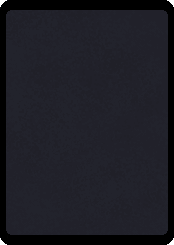
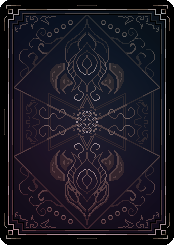
handle revealed cards in hand

diff --git a/packages/client/src/game/components/HandCard.vue b/packages/client/src/game/components/HandCard.vue
@@ -1,16 +1,18 @@
 <script setup lang="ts">
-import type { CardViewModel } from '@game/engine/src/client/view-models/card.model';
 import {
   useGameClient,
   useGameState,
-  useGameUi
+  useGameUi,
+  useMyPlayer
 } from '../composables/useGameClient';
 import GameCard from './GameCard.vue';
 import { usePageLeave } from '@vueuse/core';
 import { INTERACTION_STATES } from '@game/engine/src/game/game.enums';
+import CardBack from '@/card/components/CardBack.vue';
+import type { CardViewModel } from '@game/engine/src/client/view-models/card.model';
 
-const { card, isInteractive } = defineProps<{
-  card: CardViewModel;
+const { cardId, isInteractive } = defineProps<{
+  cardId?: string;
   isInteractive: boolean;
 }>();
 
@@ -42,17 +44,22 @@ const unselectCard = () => {
   //   });
   // });
 };
+const card = computed(() => {
+  if (!cardId) return null;
+  return (state.value.entities[cardId] as CardViewModel) ?? null;
+});
 const onMouseDown = (e: MouseEvent) => {
+  if (!card.value) return;
   if (!client.value.isActive()) {
     return;
   }
   if (state.value.interaction.state !== INTERACTION_STATES.IDLE) {
     return;
   }
-  if (!card.canPlay) {
+  if (!card.value.canPlay) {
     isShaking.value = true;
     violationWarning.value =
-      card.unplayableReason ?? 'You cannot play this card.';
+      card.value.unplayableReason ?? 'You cannot play this card.';
 
     setTimeout(() => {
       violationWarning.value = '';
@@ -72,9 +79,10 @@ const onMouseDown = (e: MouseEvent) => {
   };
 
   const onMousemove = (e: MouseEvent) => {
+    if (!card.value) return;
     const deltaY = startY - e.clientY;
     if (deltaY >= DRAG_THRESHOLD_PX && !ui.value.draggedCard) {
-      ui.value.startDraggingCard(card);
+      ui.value.startDraggingCard(card.value);
       document.body.removeEventListener('mousemove', onMousemove);
     }
   };
@@ -102,26 +110,30 @@ const onMouseDown = (e: MouseEvent) => {
 };
 
 const isDetachedFromHand = computed(() => {
-  if (ui.value.draggedCard?.equals(card)) return true;
+  if (!card.value) return false;
+  if (ui.value.draggedCard?.equals(card.value)) return true;
   return (
     state.value.interaction.state === INTERACTION_STATES.PLAYING_CARD &&
-    state.value.interaction.ctx.card === card.id &&
-    !card.isSelected
+    state.value.interaction.ctx.card === card.value.id &&
+    !card.value.isSelected
   );
 });
 
 const isDisabled = computed(() => {
-  return !card.canPlay;
+  if (!card.value) return false;
+  return !card.value.canPlay;
 });
+const myPlayer = useMyPlayer();
 </script>
 
 <template>
   <div
     class="hand-card"
     :class="{
-      selected: ui.selectedCard?.equals(card),
+      selected: card && ui.selectedCard?.equals(card),
       disabled: isDisabled,
-      'is-shaking': isShaking
+      'is-shaking': isShaking,
+      'is-own-card': card && card.player.equals(myPlayer)
     }"
     @mousedown="onMouseDown($event)"
   >
@@ -129,7 +141,7 @@ const isDisabled = computed(() => {
       {{ violationWarning }}
     </p>
     <GameCard
-      v-if="!isDetachedFromHand"
+      v-if="card && !isDetachedFromHand"
       :card-id="card.id"
       actions-side="top"
       :actions-offset="15"
@@ -137,6 +149,7 @@ const isDisabled = computed(() => {
       class="game-card"
       :show-action-empty-state="false"
     />
+    <CardBack v-else-if="!card" />
   </div>
 </template>
 
@@ -159,7 +172,7 @@ const isDisabled = computed(() => {
     z-index: var(--hand-size);
   }
 
-  &:not(.disabled) {
+  &.is-own-card:not(.disabled) {
     &::before {
       content: '';
       position: absolute;

diff --git a/packages/client/src/game/components/OpponentHand.vue b/packages/client/src/game/components/OpponentHand.vue
@@ -13,7 +13,10 @@ import { useElementBounding, useResizeObserver } from '@vueuse/core';
 import type { ShallowRef } from 'vue';
 import HandCard from './HandCard.vue';
 
-const { playerId } = defineProps<{ playerId: string }>();
+const { playerId, teachingMode } = defineProps<{
+  playerId: string;
+  teachingMode: boolean;
+}>();
 
 const player = usePlayer(playerId);
 const ui = useGameUi();
@@ -145,11 +148,16 @@ watch(width, v => {
   if (client.value.isPlayingFx) return;
   handWidth.value = v * 0.75;
 });
+
+const isHoverable = computed(
+  () => teachingMode || cards.value.some(c => c.card.isRevealed)
+);
 </script>
 
 <template>
   <OnClickOutside
     class="hand-wrapper"
+    :class="{ 'is-hoverable': isHoverable }"
     :options="{ ignore: [`${ui.DOMSelectors.globalActionButtons.selector} *`] }"
     @trigger="isExpanded = false"
   >
@@ -168,9 +176,11 @@ watch(width, v => {
     >
       <HandCard
         v-for="card in cards"
-        :key="card.card.id"
-        :card="card.card"
+        :key="card.card.cardId"
         :is-interactive="isMyHand"
+        :card-id="
+          teachingMode || card.card.isRevealed ? card.card.cardId : undefined
+        "
         :style="{
           '--x': `${card.x}px`,
           '--y': `${card.y}px`,
@@ -189,6 +199,12 @@ watch(width, v => {
   left: 50%;
   transform: translateX(-50%);
   height: 50px;
+  &:not(.is-hoverable) {
+    pointer-events: none;
+    * {
+      pointer-events: none;
+    }
+  }
 }
 .hand {
   --pixel-scale: 1.25;

diff --git a/packages/client/src/game/components/GameBoard.vue b/packages/client/src/game/components/GameBoard.vue
@@ -25,7 +25,6 @@ import DraggedCard from './DraggedCard.vue';
 import { INTERACTION_STATES } from '@game/engine/src/game/game.enums';
 import GameCard from './GameCard.vue';
 import InspectableCard from '@/card/components/InspectableCard.vue';
-import { CARD_KINDS } from '@game/engine/src/card/card.enums';
 import TurnIndicator from './TurnIndicator.vue';
 import RearrangeCardsModal from './RearrangeCardsModal.vue';
 import OpponentHand from './OpponentHand.vue';
@@ -105,7 +104,11 @@ const isSettingsOpened = ref(false);
   </div>
 
   <div class="opponent-hand">
-    <OpponentHand :player-id="opponentPlayer.id" :key="opponentPlayer.id" />
+    <OpponentHand
+      :player-id="opponentPlayer.id"
+      :key="opponentPlayer.id"
+      :teaching-mode="options.teachingMode"
+    />
   </div>
 
   <div class="my-hand">
@@ -151,7 +154,7 @@ const isSettingsOpened = ref(false);
   grid-template-rows: 1fr auto 1fr auto;
   gap: var(--size-2);
   transform-style: preserve-3d;
-  background: radial-gradient(circle at center, #112, transparent 75%);
+  background: radial-gradient(circle at center, #0e151b, transparent 75%);
 }
 
 .arrows {

diff --git a/packages/engine/src/client/actions/pass.ts b/packages/engine/src/client/actions/pass.ts
@@ -13,27 +13,6 @@ export class PassGlobalAction implements GlobalActionRule {
 
   constructor(private client: GameClient) {}
 
-  get hasRemainingAction() {
-    const state = this.client.state;
-
-    const player = state.entities[this.client.playerId] as PlayerViewModel;
-
-    const hand = player.hand;
-    const boardSide = state.board.sides.find(side => side.playerId === player.id)!;
-    const destinyDeck = boardSide.destinyDeck.map(
-      id => state.entities[id] as CardViewModel
-    );
-    const minions = boardSide.minions
-      .filter(isDefined)
-      .map(id => state.entities[id] as CardViewModel);
-
-    return (
-      hand.some(card => card.canPlay) ||
-      destinyDeck.some(card => card.canPlay) ||
-      minions.some(card => !card.isExhausted)
-    );
-  }
-
   getLabel(): string {
     return this.client.state.effectChain ? 'Pass Chain' : 'Pass Turn';
   }

diff --git a/packages/engine/src/card/sets/core/arcane/minions/cosmic-avatar.ts b/packages/engine/src/card/sets/core/arcane/minions/cosmic-avatar.ts
@@ -30,7 +30,7 @@ export const cosmicAvatar: MinionBlueprint = {
     @Pride 3@, @Hindered 2@.
     Depending on your hero's @Empower@ stacks:
     1: @Preemptive Strike@.
-    2-3: @Overwhelm@ and +2 Atk.
+    2-3: @Overwhelm@ and +1 Atk.
     4+: @On Attack@: Deal 3 damage to all enemies.
   `,
   faction: FACTIONS.ARCANE,
@@ -54,7 +54,7 @@ export const cosmicAvatar: MinionBlueprint = {
       tint: FACTIONS.ARCANE.defaultCardTint
     }
   },
-  destinyCost: 3,
+  destinyCost: 4,
   speed: CARD_SPEED.SLOW,
   atk: 4,
   maxHp: 4,
@@ -76,7 +76,7 @@ export const cosmicAvatar: MinionBlueprint = {
     );
     await card.modifiers.add(
       new SimpleAttackBuffModifier('cosmic-avatar-empower-atk-buff', game, card, {
-        amount: 2,
+        amount: 1,
         mixins: [new TogglableModifierMixin(game, () => getEmpowerStacks(card) >= 2)]
       })
     );

diff --git a/packages/engine/src/player/player.entity.ts b/packages/engine/src/player/player.entity.ts
@@ -33,7 +33,7 @@ export type SerializedPlayer = {
   id: string;
   entityType: 'player';
   name: string;
-  hand: string[];
+  hand: Array<{ cardId: string; isLocked: boolean; isRevealed: boolean }>;
   handSize: number;
   influence: number;
   discardPile: string[];
@@ -170,7 +170,11 @@ export class Player
       id: this.id,
       entityType: 'player' as const,
       name: this.options.name,
-      hand: this.cardManager.hand.map(card => card.id),
+      hand: this.cardManager.hand.map(card => ({
+        cardId: card.id,
+        isLocked: card.modifiers.has(LockedModifier),
+        isRevealed: card.isRevealed
+      })),
       handSize: this.cardManager.hand.length,
       discardPile: [...this.cardManager.discardPile].map(card => card.id),
       banishPile: [...this.cardManager.banishPile].map(card => card.id),

diff --git a/packages/engine/src/client/view-models/card.model.ts b/packages/engine/src/client/view-models/card.model.ts
@@ -338,7 +338,7 @@ export class CardViewModel {
       return null;
     }
 
-    return this.player.hand.findIndex(card => card.equals(this));
+    return this.player.hand.findIndex(card => card.cardId === this.id);
   }
 
   get preResponseTargets() {
@@ -374,7 +374,7 @@ export class CardViewModel {
   play() {
     const hand = this.player.hand;
 
-    const index = hand.findIndex(card => card.equals(this));
+    const index = hand.findIndex(card => card.cardId === this.id);
     if (index === -1) return;
 
     this.getClient().declarePlayCard(this);

diff --git a/packages/client/src/card/components/Card.vue b/packages/client/src/card/components/Card.vue
@@ -493,7 +493,7 @@ const kindBg = computed(() => {
 .card-back {
   transform: rotateY(0.5turn);
   backface-visibility: hidden;
-  background: url('@/assets/ui/card-back.png');
+  background: url('@/assets/ui/card/card_backs/default.png');
   background-size: cover;
   --glare-mask: url('@/assets/ui/card-back.png');
   --foil-mask: url('@/assets/ui/card-back.png');

diff --git a/packages/engine/src/client/actions/toggle-for-mana-cost.ts b/packages/engine/src/client/actions/toggle-for-mana-cost.ts
@@ -36,7 +36,7 @@ export class ToggleForManaCost implements CardClickRule {
       return;
     }
 
-    const index = card.player.hand.findIndex(c => c.equals(card));
+    const index = card.player.hand.findIndex(c => c.cardId === card.id);
     if (this.client.ui.selectedManaCostIndices.includes(index)) {
       this.unselect(index, card);
     } else {

diff --git a/packages/client/src/card/components/CardBack.vue b/packages/client/src/card/components/CardBack.vue
@@ -6,8 +6,7 @@
 
 <style scoped lang="postcss">
 .card-back {
-  background: url(@assets/ui/card/card_backs/default.png) no-repeat center
-    center;
+  background: url('@/assets/ui/card/card_backs/default.png') no-repeat center;
   background-size: cover;
   aspect-ratio: var(--card-ratio);
   height: calc(var(--card-height) * var(--pixel-scale));

diff --git a/packages/client/src/game/components/Hand.vue b/packages/client/src/game/components/Hand.vue
@@ -168,8 +168,8 @@ watch(width, v => {
     >
       <HandCard
         v-for="card in cards"
-        :key="card.card.id"
-        :card="card.card"
+        :key="card.card.cardId"
+        :card-id="card.card.cardId"
         :is-interactive="isMyHand"
         class="hand-card"
         :style="{

diff --git a/packages/engine/src/card/sets/core/arcane/spells/replenish-energy.ts b/packages/engine/src/card/sets/core/arcane/spells/replenish-energy.ts
@@ -45,7 +45,7 @@ export const replenishEnergy: SpellBlueprint = {
       tint: FACTIONS.ARCANE.defaultCardTint
     }
   },
-  destinyCost: 0,
+  destinyCost: 1,
   speed: CARD_SPEED.BURST,
   abilities: [],
   canPlay: (game, card) => card.player.hero.modifiers.has(EmpowerModifier),
